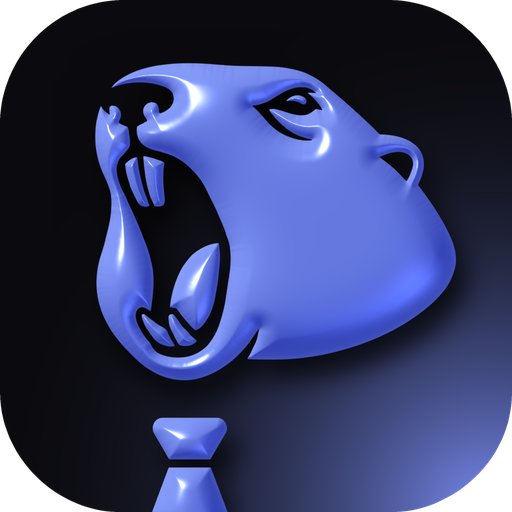
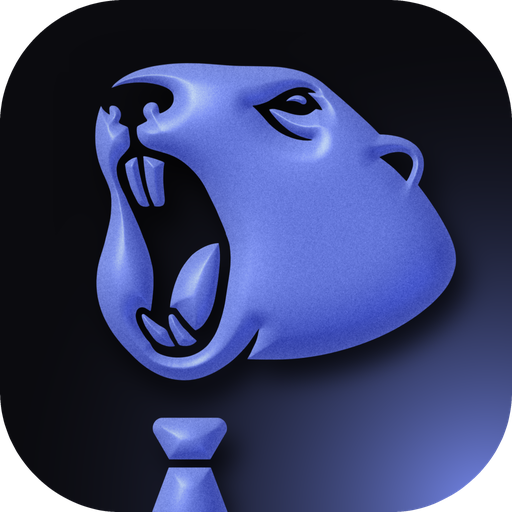
Lead the link preview with the QUITOPIA title and give the marmot a matte, grainy finish
Claude-Session: https://claude.ai/code/session_01N51b2tuNVt9jrMTZPFmN4t

diff --git a/quitopia/index.html b/quitopia/index.html
@@ -5,16 +5,16 @@
 <meta name="viewport" content="width=device-width, initial-scale=1, viewport-fit=cover">
 <meta name="description" content="퇴근하고 싶은 마음을 사물과 글자를 두드려 부수며 푸는 QUITOPIA">
 <title>QUITOPIA</title>
-<link rel="icon" href="/favicon.ico?v=3" sizes="any">
-<link rel="icon" type="image/png" sizes="32x32" href="/favicon-32.png?v=3">
-<link rel="apple-touch-icon" href="/apple-touch-icon.png?v=3">
+<link rel="icon" href="/favicon.ico?v=4" sizes="any">
+<link rel="icon" type="image/png" sizes="32x32" href="/favicon-32.png?v=4">
+<link rel="apple-touch-icon" href="/apple-touch-icon.png?v=4">
 <meta name="theme-color" content="#09090C">
 <meta property="og:type" content="website">
 <meta property="og:site_name" content="QUITOPIA">
 <meta property="og:title" content="QUITOPIA · 집에 가고 싶다">
 <meta property="og:description" content="퇴근하고 싶은 사람들의 유토피아. 사물과 글자를 두드리고 부수며 푸는 퇴근 욕구.">
 <meta property="og:url" content="https://quitopia-ssodam.vercel.app/">
-<meta property="og:image" content="https://quitopia-ssodam.vercel.app/og.png?v=3">
+<meta property="og:image" content="https://quitopia-ssodam.vercel.app/og.png?v=4">
 <meta property="og:image:width" content="1200">
 <meta property="og:image:height" content="630">
 <meta property="og:image:alt" content="소리 지르는 넥타이 마멋과 QUITOPIA 로고">
@@ -22,7 +22,7 @@
 <meta name="twitter:card" content="summary_large_image">
 <meta name="twitter:title" content="QUITOPIA · 집에 가고 싶다">
 <meta name="twitter:description" content="사물과 글자를 두드리고 부수며 푸는 퇴근 욕구.">
-<meta name="twitter:image" content="https://quitopia-ssodam.vercel.app/og.png?v=3">
+<meta name="twitter:image" content="https://quitopia-ssodam.vercel.app/og.png?v=4">
 <meta name="claude:viewport-fit-sides" content="cover">
 <link rel="preconnect" href="https://fonts.googleapis.com">
 <link rel="preconnect" href="https://fonts.gstatic.com" crossorigin>
